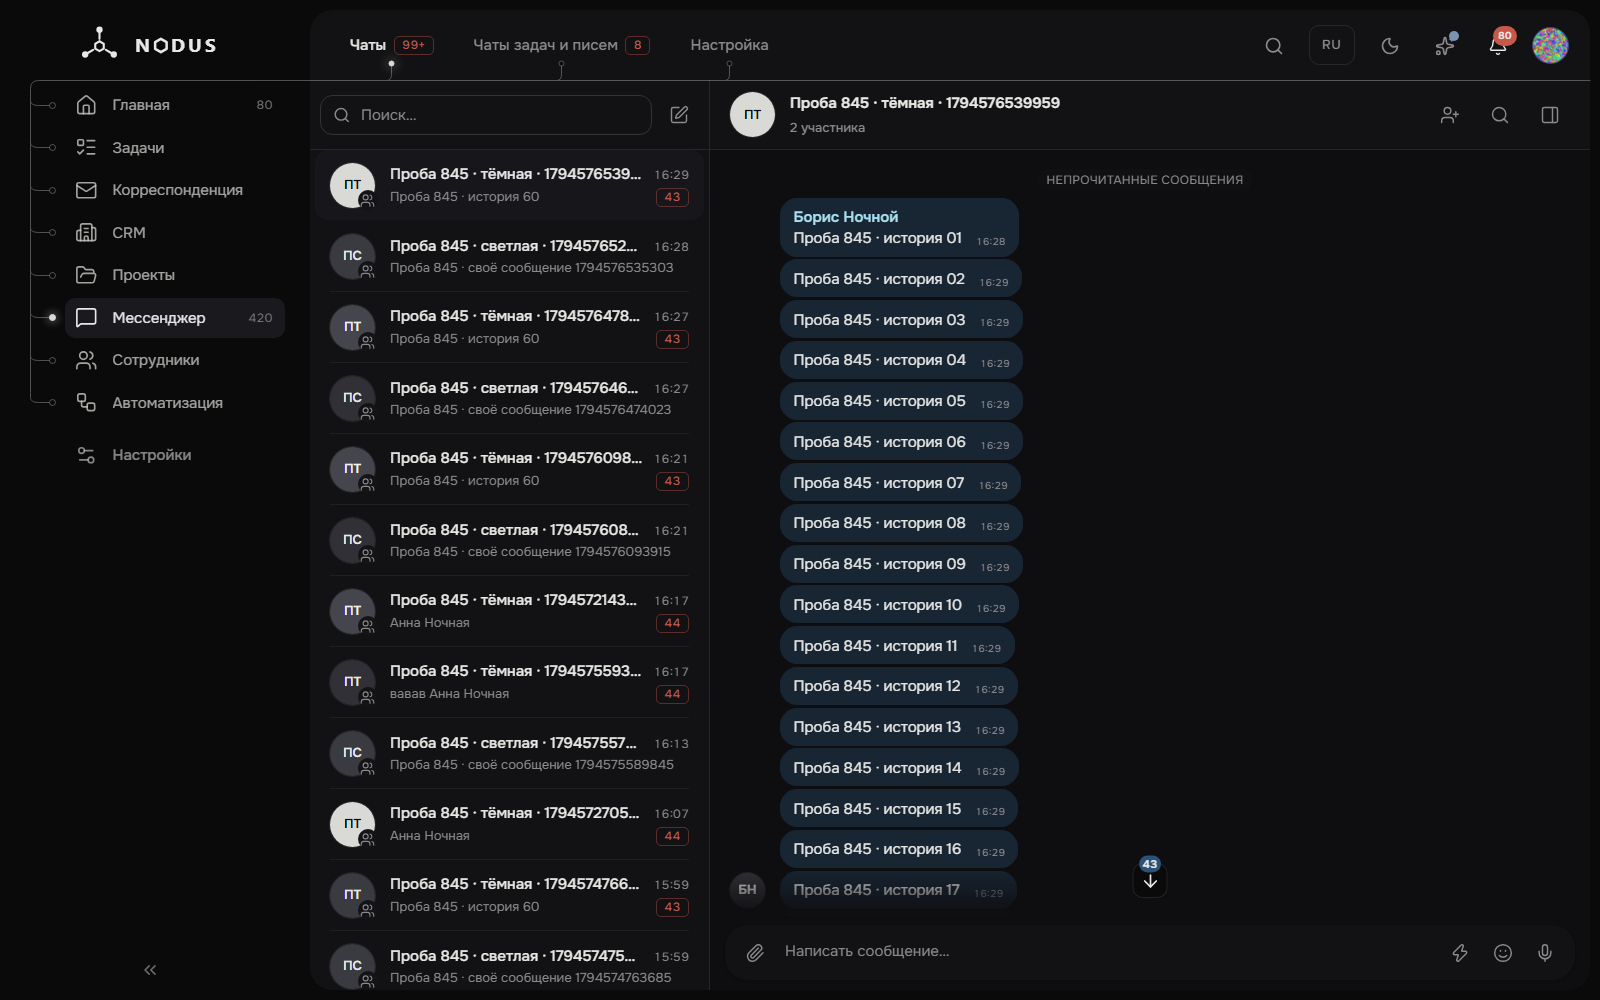
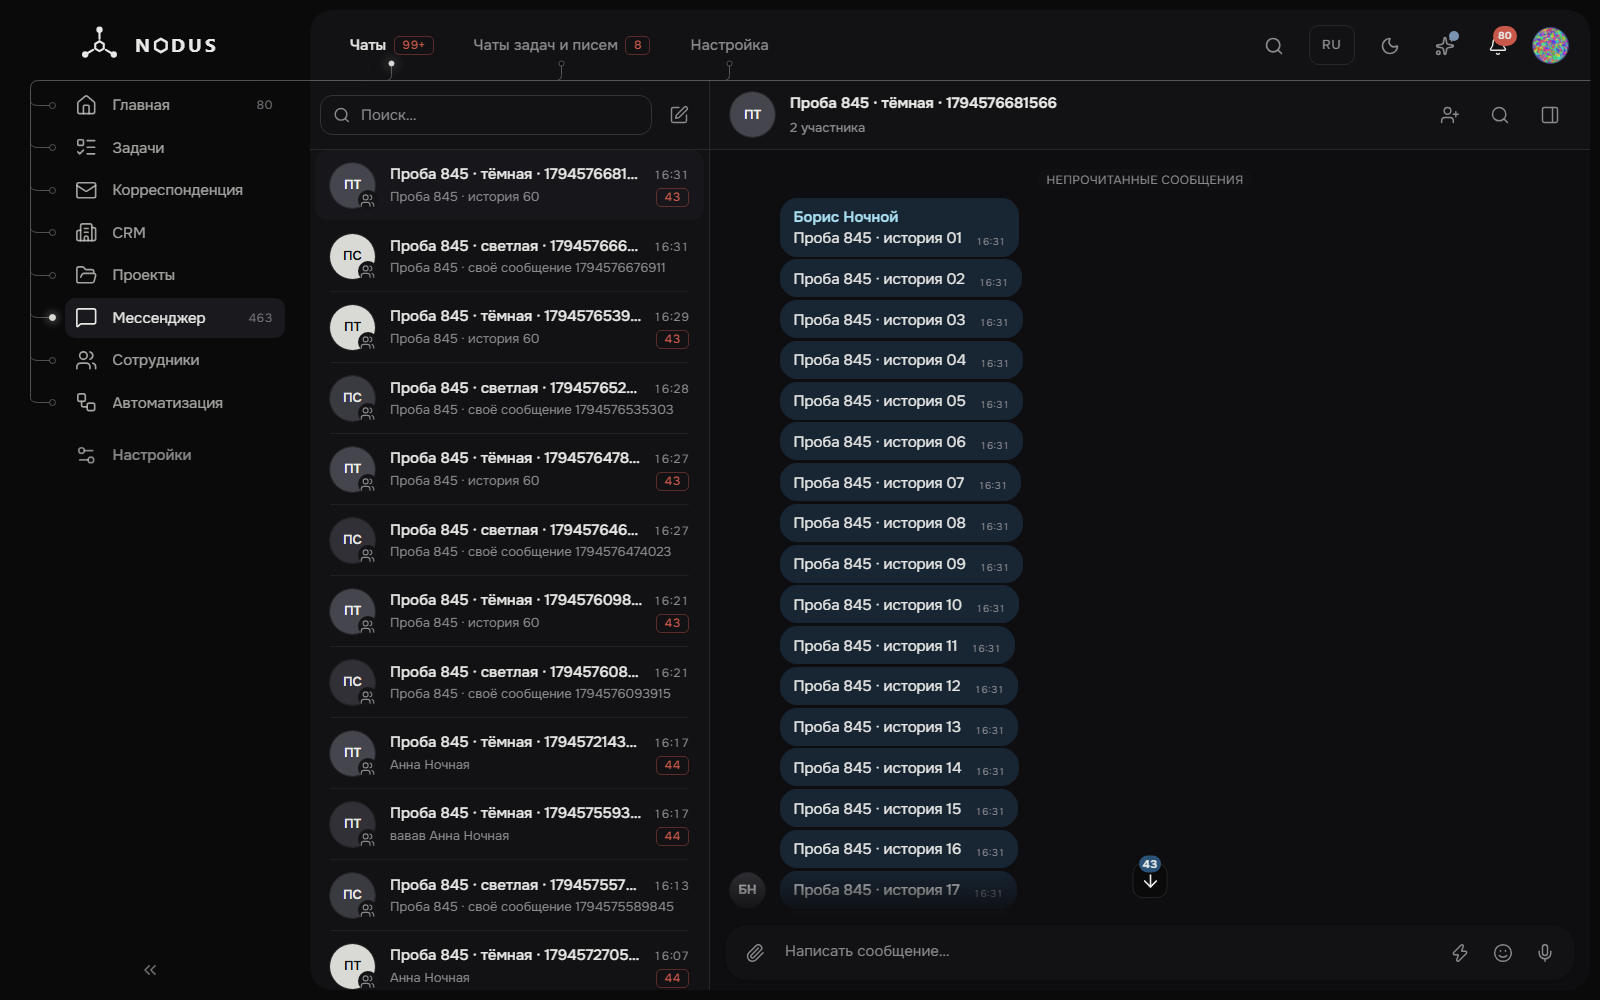
fix(web): цель стрелки — DOM-якорь плашки, без рассинхрона среза данных (#845)

diff --git a/apps/web/src/shared/chat/feed-scroller-button.tsx b/apps/web/src/shared/chat/feed-scroller-button.tsx
@@ -40,9 +40,9 @@ export function FeedScrollerButton({
   unreadCount?: number;
   /** Перед навигацией (к первому непрочитанному или в конец): плашка
    *  непрочитанных переставляется на живую границу — её движение скрывает
-   *  начинающаяся анимация прокрутки (#845). Возвращает id, на который встала
-   *  плашка: стрелка летит ровно к нему (один срез данных, без рассинхрона). */
-  onBeforeNavigate?: () => string | null;
+   *  начинающаяся анимация прокрутки (#845). Цель скролла берётся из DOM-якоря
+   *  самой плашки (`data-divider-for`), поэтому рассинхрона быть не может. */
+  onBeforeNavigate?: () => void;
 }) {
   const content = (
     <>
@@ -63,11 +63,14 @@ export function FeedScrollerButton({
   return (
     <MessageScrollerButton
       onClick={(event) => {
-        // Цель — ровно та, на которую встала плашка (или живой таргет без
-        // обработчика); null — непрочитанных нет, штатный скролл в конец.
-        const targetId = onBeforeNavigate?.() ?? firstUnreadId;
-        if (targetId === null) return;
+        onBeforeNavigate?.();
+        // Цель — ровно та, над которой стоит плашка (DOM-якорь после синка);
+        // нет плашки — непрочитанных нет, штатный скролл в конец.
         const viewport = viewportRef.current;
+        const anchor =
+          viewport?.querySelector<HTMLElement>('[data-divider-for]')?.dataset.dividerFor ?? null;
+        const targetId = anchor ?? firstUnreadId;
+        if (targetId === null) return;
         const el = viewport?.querySelector<HTMLElement>(
           `[data-message-id="${CSS.escape(targetId)}"]`,
         );

diff --git a/apps/web/src/shared/chat/conversation-pane.tsx b/apps/web/src/shared/chat/conversation-pane.tsx
@@ -286,12 +286,8 @@ function ConversationFeed({
   // анимации (flushSync — DOM уже в новом состоянии). Плавный скролл
   // (`scroll-jump`) пересчитывает цель каждый кадр по живой геометрии, поэтому
   // к концу анимации плашка на месте, лента отрисована, раскладка не меняется.
-  const handleBeforeNavigate = useCallback((): string | null => {
-    let target: string | null = null;
-    flushSync(() => {
-      target = syncToLive();
-    });
-    return target;
+  const handleBeforeNavigate = useCallback(() => {
+    flushSync(() => syncToLive());
   }, [syncToLive]);
 
   // Протокол хоста ленты: отправка/правка, submit окна вложений, ↑-правка

diff --git a/apps/web/src/shared/chat/message-run.tsx b/apps/web/src/shared/chat/message-run.tsx
@@ -102,6 +102,7 @@ export function MessageRunView({
           cells.push(
             <div
               key={`unread-divider-${message.id}`}
+              data-divider-for={message.id}
               style={{ gridColumn: '1 / -1', gridRow: row }}
             >
               {divider}
